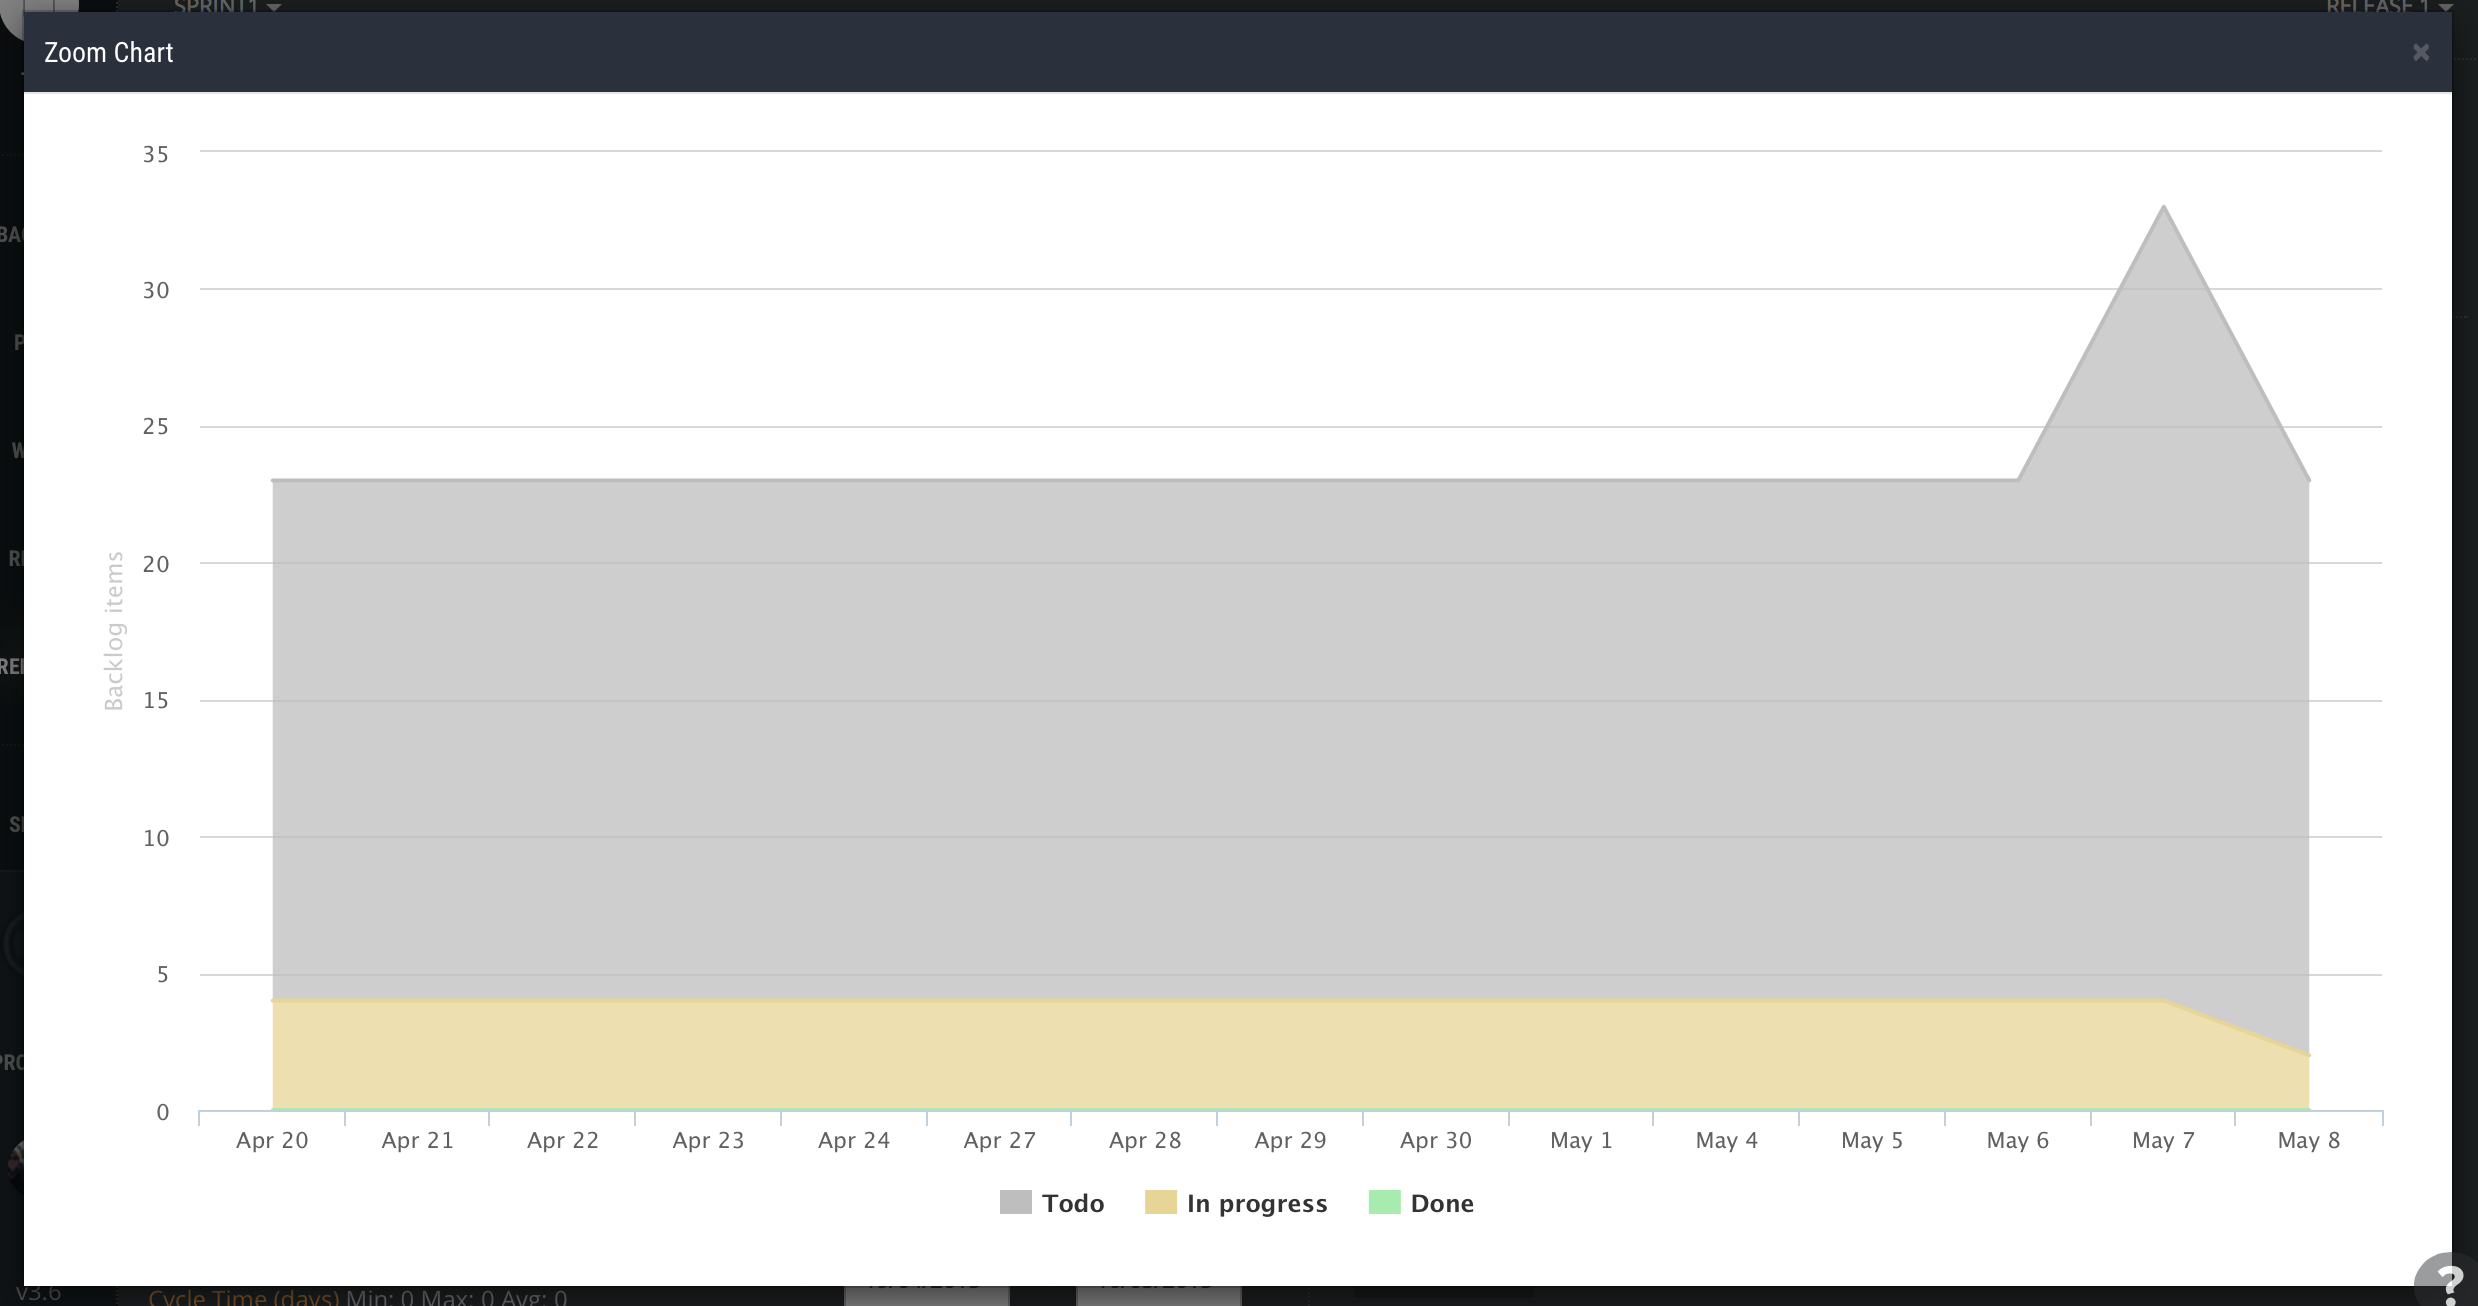
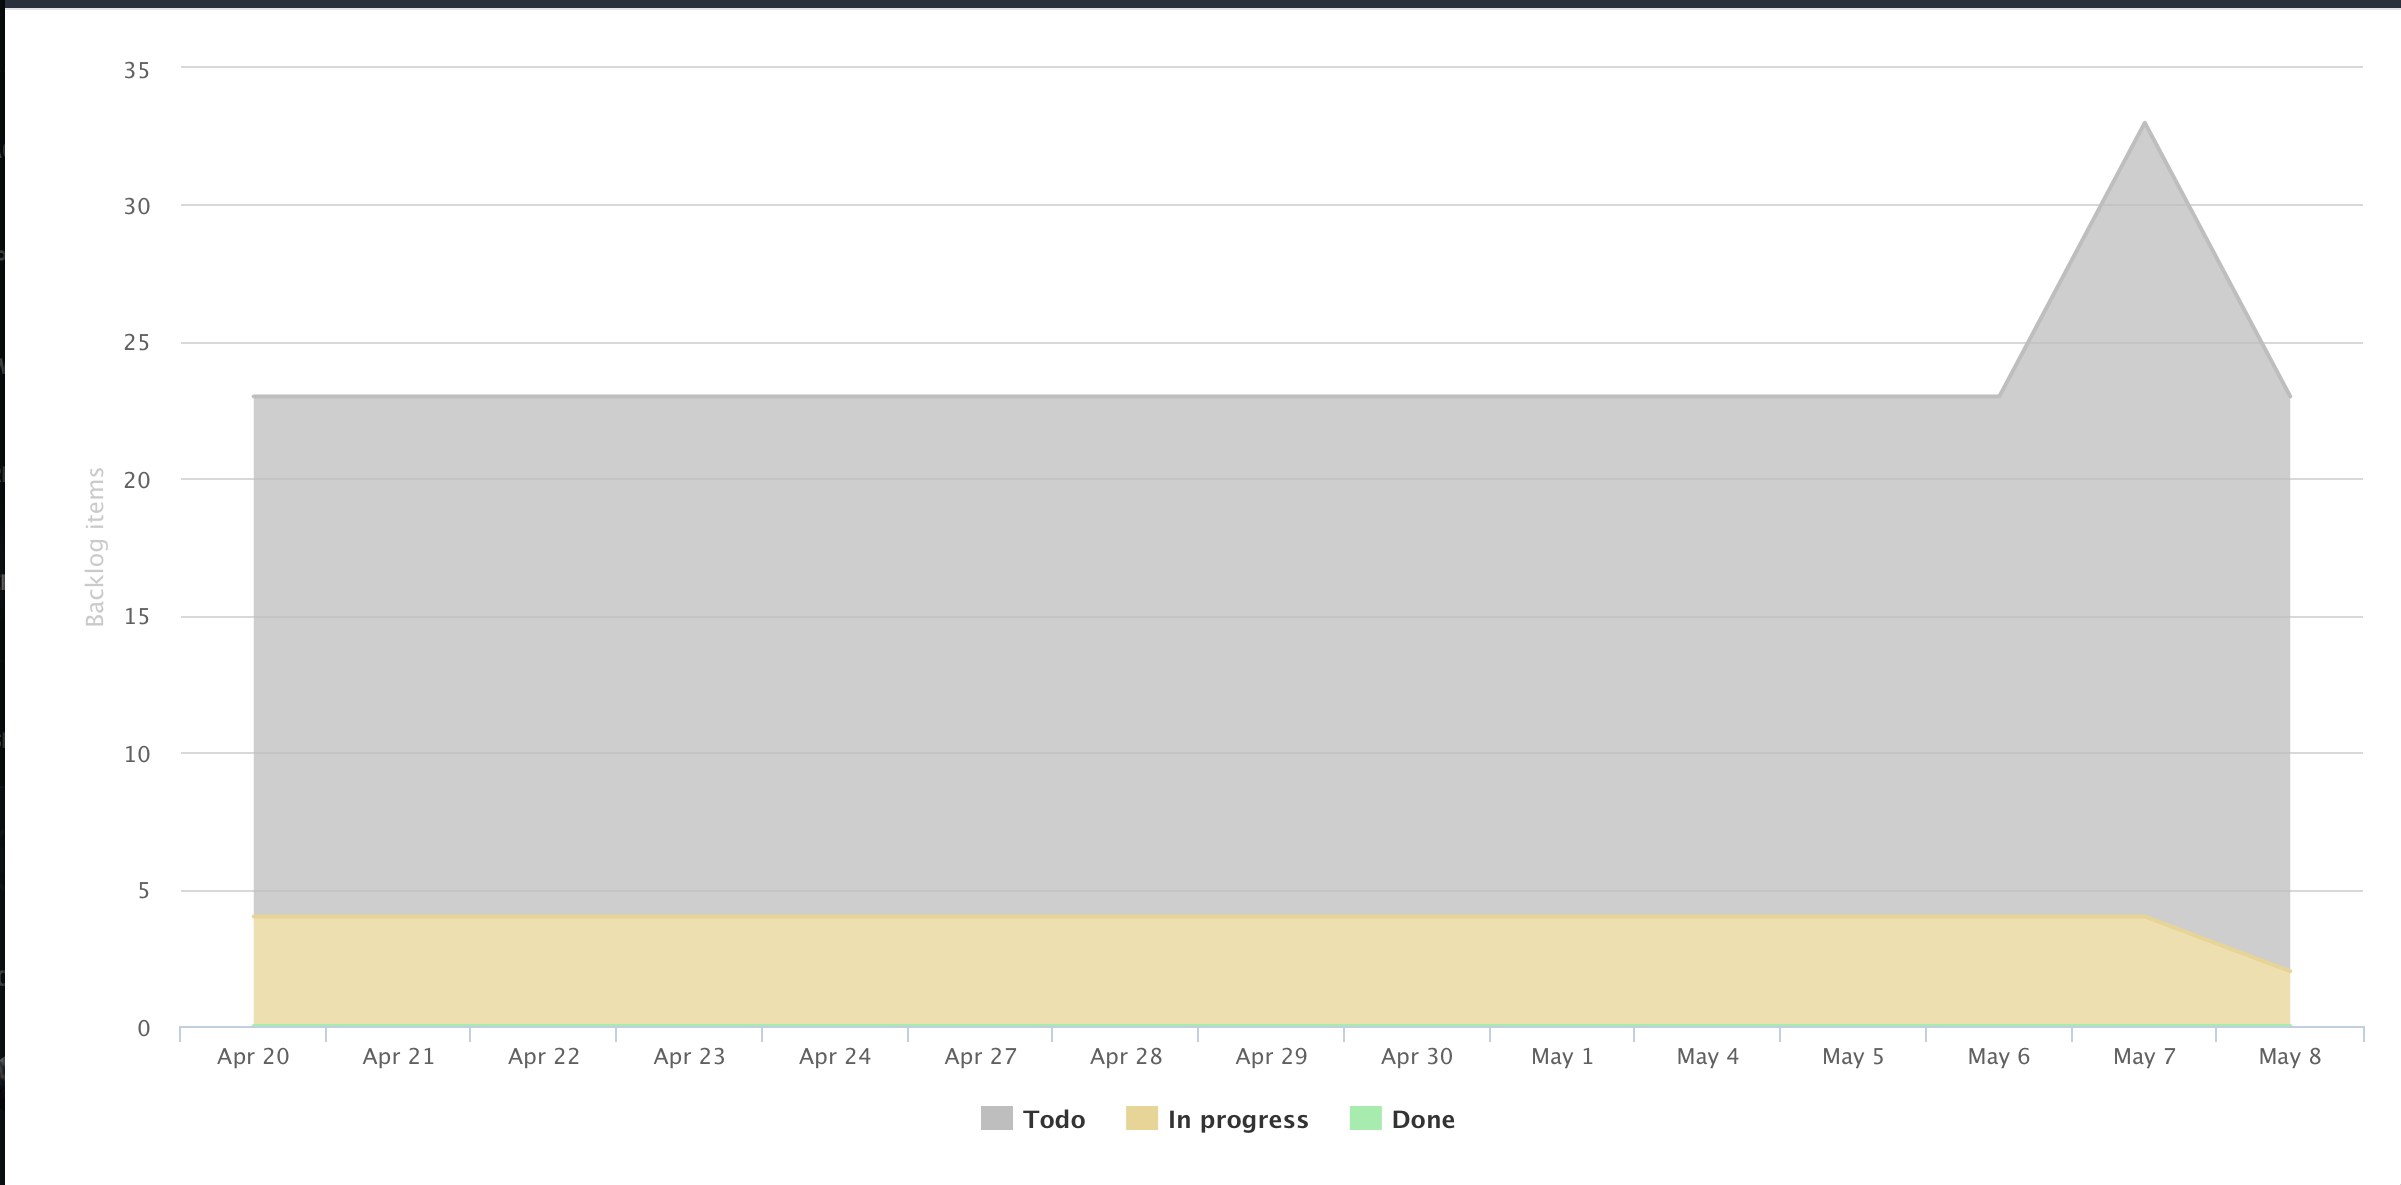
informe

Changed region(s): [[0.0, 0.0, 1.0, 1.0]]

diff --git a/tp1/Informe/InformeTP1.tex b/tp1/Informe/InformeTP1.tex
@@ -392,6 +392,11 @@ ID & User Story & Tareas & Horas & Criterio de aceptación \\ \hline \hline
 \newpage
 
 \section{Documentación}
+El proyecto se basa en la metodología Scrum, como ya se viene observando previamente. Esta permite, al finalizar el tiempo de entrega de un proyecto, observar el tiempo y cumplimiento de las tareas propuestas en la sección anterior. En este caso el Product Owner requirió de únicamente algunas de las tareas a cumplirse. Se muestra, entonces, el gráfico Burndown que es definido automáticamente por la herramienta de Scrumdesk.
+
+\centerline{\includegraphics[width=1\textwidth]{./sprint1_burndown.png}}
+
+Debido a que se utilizó una herramienta beta para administrar el proyecto, no se nos permitió ingresar una fecha de finalización del proyecto, siendo esta la designada por la misma. 
 
 
 
@@ -410,8 +415,22 @@ Por otro lado, con referencia al seguimiento del proyecto con Scrum hubo errores
 \newpage
 
 \section{Diseño}
+En primer lugar se presenta el diagrama de clases correspondiente a lo que luego se implementó para la primera demostración requerida por el Product Owner. Se decidió utilizar el lenguaje Python, debido a la experiencia por parte de los integrantes del proyecto, que permitiría avanzar de manera más rápida en la implementación del sistema. 
 
-%Diseño OO y justificación. Se deben entregar todos los diagramas que crean necesarios para explicar correctamente el funcionamiento de su diseño. Esto incluye diagramas de objetos, clases y colaboración (junto a sus escenarios). Todas las decisiones deben estar correctamente justificadas, así como las alternativas planteadas y finalmente descartadas. Para la resolución de esta parte del TP se busca fuertemente que utilicen los conceptos vistos durante el curso y se corregirá en consecuencia.
+\centerline{\includegraphics[width=1.2\textwidth]{./diagramas/DiagramaDeClases.png}}
+
+Se puede observar que el objeto Admin representará a los docentes y al personal de Secretaría o Dirección. Se decide no diferenciarlos para esta etapa del proyecto, ya que no es requerida la implementación de restricciones entre usuarios. Por el otro lado, se define que al los alumnos y los padres se los definirá a partir de Contact. Esta última clase se encarga de almacenar la información necesaria de un individuo. Será el objeto Agenda quien se encargue de agrupar a los mismos. De esta manera, en un futuro se podrá implementar de manera más sencilla la separación entre un alumno y un padre. 
+
+El Clock está implementado a partir del patrón Observer. El mismo es utilizado para poder representar e implementar el paso del tiempo en el sistema. La bandeja de salida, denominada Scheduler, requiere del aviso del Clock para enviar ciertos mensajes. Los mensajes se encontrarán ordenados a partir de la fecha en la que el Admin determina que deben ser enviados. El objeto Observer, en este caso el Clock, se encargará de dar aviso del paso del tiempo para que los mensajes que fueron definidos con un tiempo menor, sean enviados.
+
+Para poder definir de manera más clara ciertas situaciones desarrolladas en el esquema del diagrama de clases, se presenta a continuación diagramas de objetos. 
+
+%\centerline{\includegraphics[width=0.8\textwidth]{./diagramas/}} 
+
+%Describir brevemente el evento. 
+
+
+Hablar sobre encapsulamiento y responsabilidades. "Existieron, a lo largo de la creación del diseño del sistema, situaciones en los que se definía un método para una clase y al implementarlo se notaba la asignación de responsabilidades a un objeto que no le correspondía. Este escenario se repitió reiteradas situaciones, corrigiéndose en el momento y adquiriéndose experiencia con respecto al comportamiento de los distintos objetos." %chamuyo mal, ni idea que poner..!!
 
 
 
